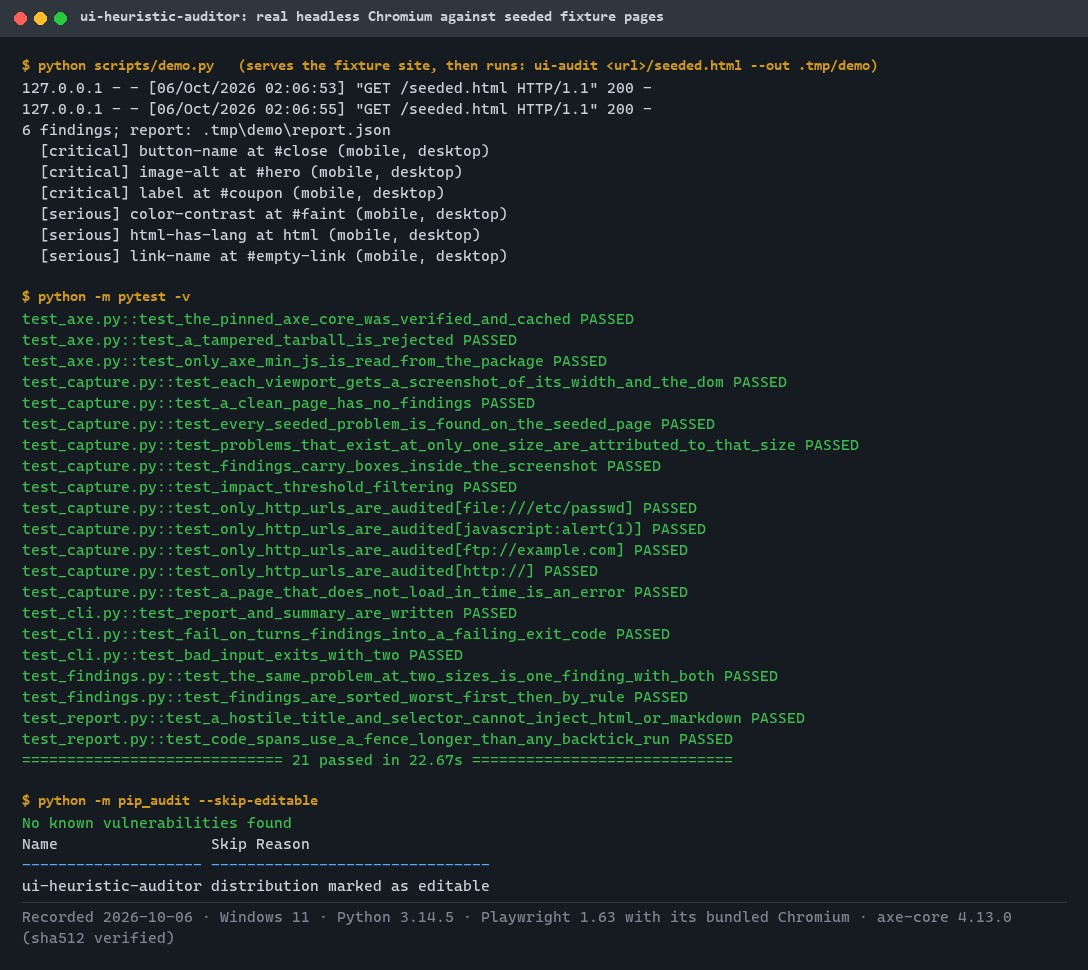
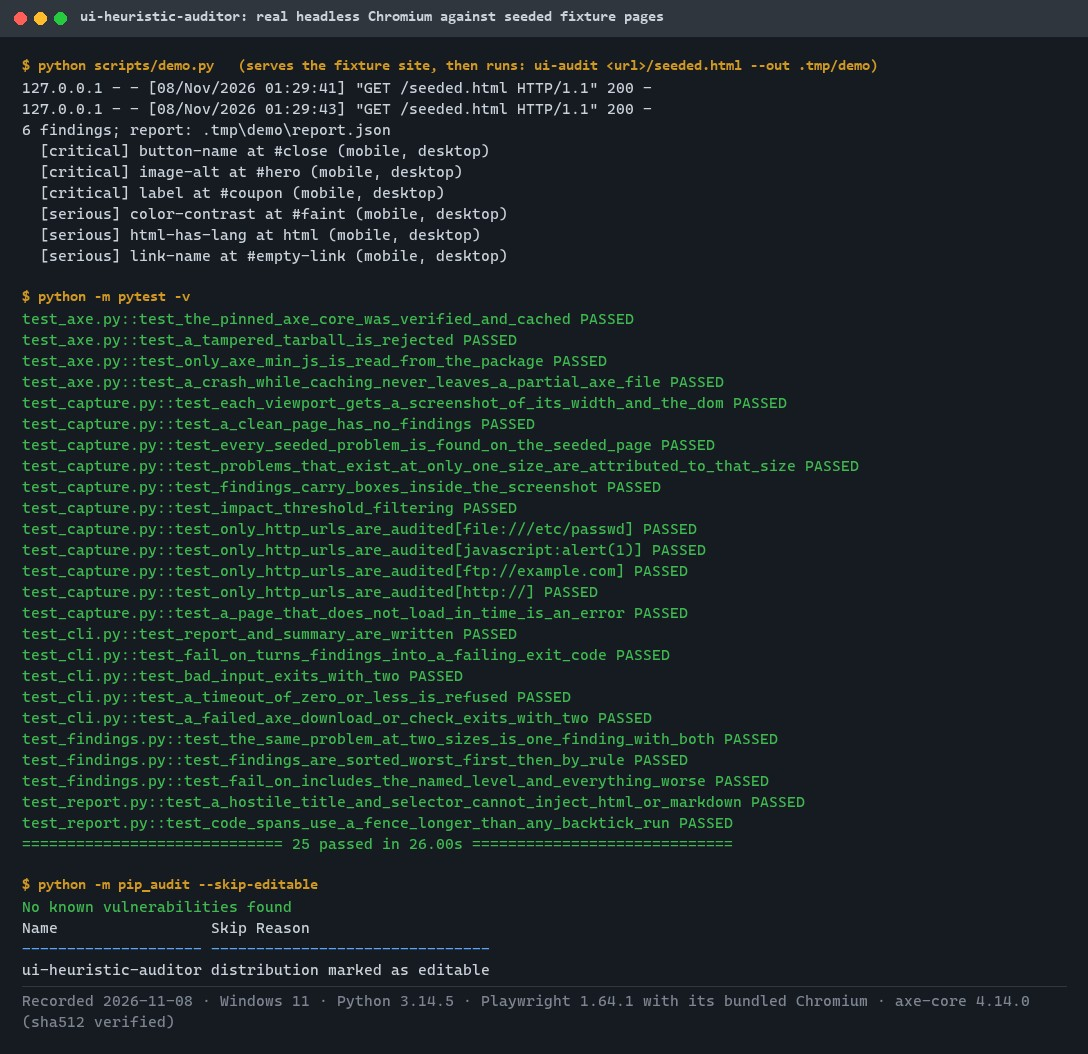
test: check the 10 quality rules, kill surviving mutants

Changed region(s): [[0.0, 0.0, 0.9375, 0.9897]]

diff --git a/docs/quality/2026-11-01.md b/docs/quality/2026-11-01.md
@@ -1,0 +1,42 @@
+# Quality check against the 10 rules (2026-11-01)
+
+Run on Windows 11 (Intel Core i7-13700H) with Python 3.14.5, Playwright 1.64.1 and its bundled
+Chromium, against the local fixture site. Mutations were applied one at a time by a script that
+restores each file.
+
+| # | Rule | Status | Evidence |
+|---|---|---|---|
+| 1 | Assume every call can fail | fixed | The axe-core download has a 60 s timeout (`axe.py`); page loads and every Playwright call use `--timeout` (`capture.py`). Two gaps fixed: `--timeout 0` was accepted and Playwright treats 0 as no timeout, so one page could hang the audit (now exit 2); and a failed axe download or hash check escaped as a traceback instead of exit 2 (`cli.py` now catches `IntegrityError` and `OSError`). |
+| 2 | Writes safe to retry | fixed | Report files are overwritten whole on a re-run. The cached `axe-<version>.min.js` was written in place, and the cache is trusted by its name, so a crash mid-write would have left a truncated script used on every later run. It is now written to a temp file and renamed (`axe.py`, test `test_a_crash_while_caching_never_leaves_a_partial_axe_file`). |
+| 3 | No race conditions | N/A | One browser per `Auditor`, used from one thread; each viewport gets its own browser context. |
+| 4 | Don't trust the clock | pass | `captured_at` is UTC (`datetime.now(UTC)`, `report.py`); no durations are computed in `src/`. |
+| 5 | Read before changing | fixed | `UI_AUDIT_CACHE` (and `--cache`, `--timeout`, `--viewports`) were not documented; the README now lists them. Playwright APIs used exist in 1.64.1 (suite passes). |
+| 6 | Never break compatibility | pass | `report.json` keeps `"schema": 1` and its fields; exit codes 0/1/2 unchanged (more errors now map to 2 instead of a traceback). |
+| 7 | One source of truth | pass | The axe cache names its source (npm tarball, pinned version and sha512) and is keyed by version, so a new pin fetches and verifies a new file. |
+| 8 | Small changes, no secrets, validate input | pass | Secret grep: nothing (the sha512 is a public integrity hash). Only http(s) URLs with a host are audited; page-controlled text is escaped in `summary.md`. |
+| 9 | Tests that can actually fail | fixed | No tautologies or skips. 8/9 mutants killed before, 9/9 after. |
+| 10 | Re-verify | pass | Results below; CI on push. |
+
+## Mutation table
+
+| Function | Mutation | Killed before? | Test added |
+|---|---|---|---|
+| `check_url` | `file:` URLs allowed | yes | - |
+| `verify` | hash not compared | yes | - |
+| `merge` | only the last viewport kept | yes | - |
+| `merge` | best findings first | yes | - |
+| `at_least` | `<` instead of `<=` (`--fail-on` excludes its own level) | **no** | `test_fail_on_includes_the_named_level_and_everything_worse` |
+| `md_text` | HTML not escaped | yes | - |
+| `md_code` | fence not longer than backtick runs | yes | - |
+| `main` | `--timeout` not checked | n/a (new check) | `test_a_timeout_of_zero_or_less_is_refused` |
+| `ensure_axe` | cache written in place | n/a (new fix) | `test_a_crash_while_caching_never_leaves_a_partial_axe_file` |
+
+## Re-verify
+
+| Command | Result |
+|---|---|
+| `pytest -q` | `25 passed` (was 21) |
+| `ruff check`, `ruff format --check`, `mypy` | `All checks passed!`, `23 files already formatted`, `Success: no issues found in 15 source files` |
+| `pip-audit` | `No known vulnerabilities found` |
+| `python scripts/demo.py` | `6 findings` on the seeded page, as before |
+| `audit_repo.py ui-heuristic-auditor` | `ui-heuristic-auditor: OK` |

diff --git a/README.md b/README.md
@@ -13,7 +13,7 @@ The auditor loads the seeded checkout page in headless Chromium at phone and des
 
 ![Findings boxed on the audited page's screenshot](docs/proof/findings.jpg)
 
-The demo run, the 21 tests (most drive a real browser) and the dependency audit:
+The demo run, the 25 tests (most drive a real browser) and the dependency audit:
 
 ![Demo audit, pytest output and pip-audit](docs/proof/tests.jpg)
 
@@ -74,7 +74,7 @@ python -m venv .venv && source .venv/bin/activate   # Windows: .venv\Scripts\act
 make setup      # install the package and dev tools
 make browsers   # download Chromium for Playwright
 make lint       # ruff, ruff format, mypy --strict
-make test       # 21 tests, most with real headless Chromium
+make test       # 25 tests, most with real headless Chromium
 ```
 
 Audit any page:
@@ -83,7 +83,9 @@ Audit any page:
 ui-audit https://example.com --out report/ --fail-on serious
 ```
 
-The output folder gets `screenshot-mobile.png`, `screenshot-desktop.png`, the DOM of each, the raw axe results, `report.json` and `summary.md`. Exit codes: 0 clean, 1 findings at or above `--fail-on`, 2 errors (bad URL, page did not load).
+The output folder gets `screenshot-mobile.png`, `screenshot-desktop.png`, the DOM of each, the raw axe results, `report.json` and `summary.md`. Exit codes: 0 clean, 1 findings at or above `--fail-on`, 2 errors (bad URL or arguments, page did not load, axe-core could not be downloaded or failed its hash check).
+
+Other options: `--viewports mobile,desktop`, `--timeout` (seconds per page load, at least 1; default 30) and `--cache` (where the verified axe-core is kept; default `.tmp/cache`, or the `UI_AUDIT_CACHE` environment variable). The cached file is written atomically and its version is in the file name, so a new pinned axe-core version downloads and verifies a new file.
 
 ### What a finding looks like
 
@@ -116,11 +118,11 @@ The output folder gets `screenshot-mobile.png`, `screenshot-desktop.png`, the DO
 
 ## Tests and results
 
-Full numbers and commands: [docs/results/m1.md](docs/results/m1.md).
+Full numbers and commands: [docs/results/m1.md](docs/results/m1.md). The 10-rule quality check (failure paths, retry safety, mutation testing) is in [docs/quality/2026-11-01.md](docs/quality/2026-11-01.md).
 
 | Check | Result |
 |---|---|
-| Tests (`make test`) | **21 passed**, 0 failed |
+| Tests (`make test`) | **25 passed**, 0 failed |
 | Seeded fixtures | 6 of 6 seeded problems found on the right elements; 2 of 2 viewport-specific problems attributed to the right viewport; 0 findings on the clean page |
 | Real page | example.com audited at two viewports in 4.2 s |
 | Supply chain | axe-core verified against npm's sha512; tampered tarball rejected |

diff --git a/docs/results/m1.md b/docs/results/m1.md
@@ -73,3 +73,9 @@ mypy 2.4.1, pip-audit 2.10.1.
 | `pytest -q`, three runs | 21 passed, 21 passed, 21 passed |
 | `python scripts/demo.py` (axe-core 4.14.0) | 6 findings on the seeded page (3 critical, 3 serious), the same six problems as above |
 | `pip-audit --skip-editable` | No known vulnerabilities found |
+
+## Quality check 2026-11-01
+
+Tests: **25 passed**, 0 failed (was 21), with Playwright 1.64.1 and axe-core 4.14.0. Fixed:
+`--timeout 0` (no timeout) is refused, a failed axe-core download or hash check exits 2, and the
+axe-core cache is written atomically. Details: [docs/quality/2026-11-01.md](../quality/2026-11-01.md).
